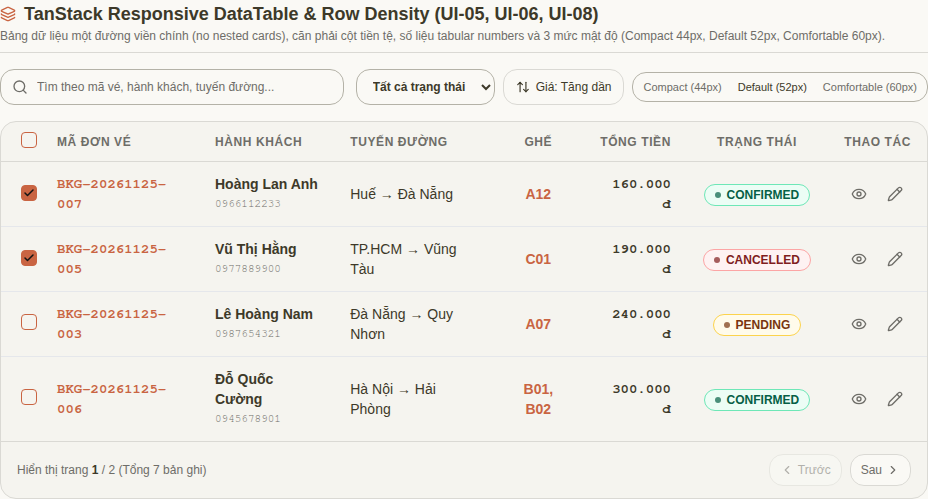
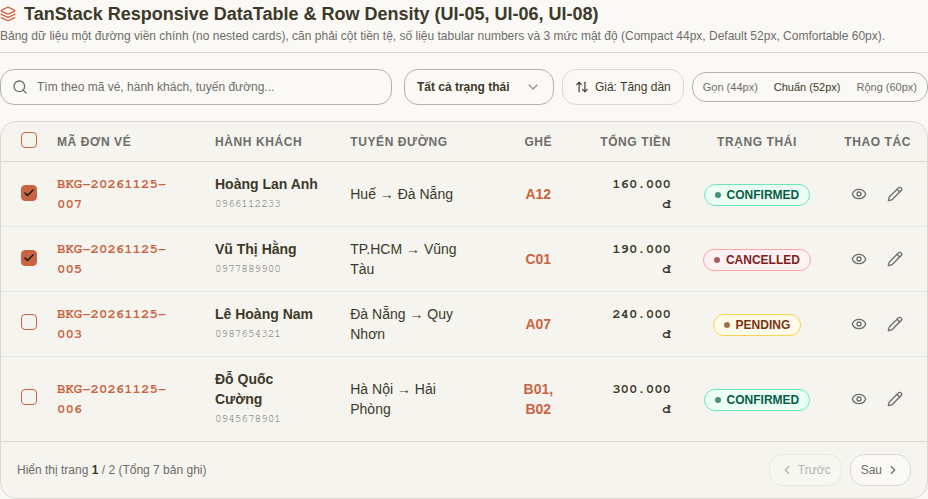
fix(showcase): customize datatable status select, compact density switcher, and fix theme customizer floating button

Changed region(s): [[0.375, 0.1202, 0.9375, 0.2104]]

diff --git a/frontend/src/showcase/DataTableDemo.vue b/frontend/src/showcase/DataTableDemo.vue
@@ -13,6 +13,13 @@ import { Button } from '@/components/ui/button'
 import { Badge, StatusBadge } from '@/components/ui/badge'
 import { Checkbox } from '@/components/ui/checkbox'
 import {
+  Select,
+  SelectTrigger,
+  SelectValue,
+  SelectContent,
+  SelectItem
+} from '@/components/ui/select'
+import {
   Search,
   ArrowUpDown,
   Filter,
@@ -180,47 +187,53 @@ function toggleSelectRow(id: string) {
       </div>
 
       <div class="flex flex-wrap items-center gap-2">
-        <select
-          v-model="selectedStatus"
-          class="h-9 px-3 rounded-md border border-input text-xs font-semibold text-foreground bg-background focus:ring-2 focus:ring-ring"
-        >
-          <option value="ALL">Tất cả trạng thái</option>
-          <option value="CONFIRMED">Đã xác nhận</option>
-          <option value="PENDING">Chờ thanh toán</option>
-          <option value="REFUNDED">Đã hoàn tiền</option>
-          <option value="CANCELLED">Đã hủy</option>
-        </select>
+        <!-- Status Filter Custom Select (Shadcn Vue) -->
+        <Select v-model="selectedStatus">
+          <SelectTrigger class="h-9 w-[150px] text-xs font-semibold bg-background border-input">
+            <SelectValue placeholder="Tất cả trạng thái" />
+          </SelectTrigger>
+          <SelectContent>
+            <SelectItem value="ALL">Tất cả trạng thái</SelectItem>
+            <SelectItem value="CONFIRMED">Đã xác nhận</SelectItem>
+            <SelectItem value="PENDING">Chờ thanh toán</SelectItem>
+            <SelectItem value="REFUNDED">Đã hoàn tiền</SelectItem>
+            <SelectItem value="CANCELLED">Đã hủy</SelectItem>
+          </SelectContent>
+        </Select>
 
         <Button variant="outline" size="sm" class="h-9 text-xs gap-1.5" @click="sortAsc = !sortAsc">
           <ArrowUpDown class="h-3.5 w-3.5" />
           <span>{{ sortAsc ? 'Giá: Tăng dần' : 'Giá: Giảm dần' }}</span>
         </Button>
 
-        <!-- Density Selector (UI-05 & UI-08) -->
-        <div class="inline-flex rounded-md border border-input p-0.5 bg-muted/40">
+        <!-- Density Selector: Tối ưu nhỏ gọn, hiển thị rõ độ cao -->
+        <div class="inline-flex items-center rounded-md border border-input p-0.5 bg-muted/40 text-[11px]">
           <button
             type="button"
-            class="px-2 py-1 text-[11px] rounded transition-colors font-medium cursor-pointer"
+            class="px-2 py-1 rounded transition-colors font-medium cursor-pointer"
             :class="tableDensity === 'compact' ? 'bg-background font-bold shadow-xs text-foreground' : 'text-muted-foreground hover:text-foreground'"
+            title="Độ cao dòng Compact (44px)"
             @click="tableDensity = 'compact'"
           >
-            Compact (44px)
+            Gọn (44px)
           </button>
           <button
             type="button"
-            class="px-2 py-1 text-[11px] rounded transition-colors font-medium cursor-pointer"
+            class="px-2 py-1 rounded transition-colors font-medium cursor-pointer"
             :class="tableDensity === 'default' ? 'bg-background font-bold shadow-xs text-foreground' : 'text-muted-foreground hover:text-foreground'"
+            title="Độ cao dòng Default (52px)"
             @click="tableDensity = 'default'"
           >
-            Default (52px)
+            Chuẩn (52px)
           </button>
           <button
             type="button"
-            class="px-2 py-1 text-[11px] rounded transition-colors font-medium cursor-pointer"
+            class="px-2 py-1 rounded transition-colors font-medium cursor-pointer"
             :class="tableDensity === 'comfortable' ? 'bg-background font-bold shadow-xs text-foreground' : 'text-muted-foreground hover:text-foreground'"
+            title="Độ cao dòng Comfortable (60px)"
             @click="tableDensity = 'comfortable'"
           >
-            Comfortable (60px)
+            Rộng (60px)
           </button>
         </div>
       </div>

diff --git a/frontend/src/shared/components/ThemeCustomizer.vue b/frontend/src/shared/components/ThemeCustomizer.vue
@@ -1,5 +1,5 @@
 <script setup lang="ts">
-import { ref, computed } from 'vue'
+import { ref, watch } from 'vue'
 import {
   useTheme,
   type ThemeMode,
@@ -37,13 +37,20 @@ const emits = defineEmits<{
   (e: 'update:modelValue', val: boolean): void
 }>()
 
-const localIsOpen = ref(false)
-const isOpen = computed({
-  get: () => (props.modelValue !== undefined ? props.modelValue : localIsOpen.value),
-  set: (val: boolean) => {
-    localIsOpen.value = val
-    emits('update:modelValue', val)
-  }
+const isOpen = ref(false)
+
+watch(
+  () => props.modelValue,
+  (val) => {
+    if (val !== undefined) {
+      isOpen.value = val
+    }
+  },
+  { immediate: true }
+)
+
+watch(isOpen, (val) => {
+  emits('update:modelValue', val)
 })
 const {
   draftTheme,
@@ -95,27 +102,28 @@ function handleReset() {
 
 <template>
   <div>
-    <!-- Trigger Floating Button (Hidden on mobile if controlled from header) -->
+    <!-- Trigger Floating Button (Nút nổi tròn kinh điển ở góc dưới phải z-40) -->
     <Button
       v-if="showFloatingTrigger"
       variant="outline"
       size="sm"
-      class="hidden md:flex fixed bottom-5 right-5 z-40 items-center gap-2 rounded-full shadow-lg border-primary/30 bg-background/95 backdrop-blur hover:bg-accent"
+      class="fixed bottom-5 right-5 z-40 flex items-center gap-2 rounded-full shadow-lg border-primary/30 bg-background/95 backdrop-blur hover:bg-accent cursor-pointer transition-transform duration-150 hover:scale-105 active:scale-95"
       @click="isOpen = !isOpen"
     >
       <Paintbrush class="h-4 w-4 text-primary" />
       <span class="font-medium text-xs">Tùy biến Theme</span>
     </Button>
 
-    <!-- Slide-over Drawer / Panel -->
-    <div
-      v-if="isOpen"
-      class="fixed inset-0 z-50 flex justify-end bg-black/40 backdrop-blur-xs transition-opacity"
-      @click.self="handleCancel"
-    >
+    <!-- Slide-over Drawer / Panel (Teleport thẳng ra body z-50, không bị che khuất hay ảnh hưởng bởi layout) -->
+    <Teleport to="body">
       <div
-        class="flex flex-col h-full w-full max-w-md bg-background border-l shadow-2xl p-6 overflow-y-auto animate-in slide-in-from-right duration-300"
+        v-if="isOpen"
+        class="fixed inset-0 z-50 flex justify-end bg-black/50 backdrop-blur-xs transition-opacity duration-300"
+        @click.self="handleCancel"
       >
+        <div
+          class="flex flex-col h-full w-full max-w-md bg-background border-l shadow-2xl p-6 overflow-y-auto animate-in slide-in-from-right duration-300"
+        >
         <div class="flex items-center justify-between pb-4 border-b">
           <div class="flex items-center gap-2">
             <div class="p-2 rounded-lg bg-primary/10 text-primary">
@@ -327,5 +335,6 @@ function handleReset() {
         </div>
       </div>
     </div>
-  </div>
+  </Teleport>
+</div>
 </template>

diff --git a/frontend/e2e/showcase-audit.spec.js b/frontend/e2e/showcase-audit.spec.js
@@ -119,7 +119,7 @@ test.describe('Showcase UI Fidelity & Interactive Audit (UI-01 through UI-14)', 
     })
 
     // 2. Switch to Compact density
-    const compactBtn = tableSection.locator('button:has-text("Compact")')
+    const compactBtn = tableSection.locator('button:has-text("Compact"), button:has-text("Gọn")')
     if (await compactBtn.isVisible()) {
       await compactBtn.click()
       await page.waitForTimeout(200)

diff --git a/frontend/src/showcase/ShowcaseHub.vue b/frontend/src/showcase/ShowcaseHub.vue
@@ -743,10 +743,9 @@ function scrollTo(id: string) {
       </main>
     </div>
 
-    <!-- Theme Customizer Drawer (Controlled from Header or custom trigger) -->
+    <!-- Theme Customizer Drawer với Floating Trigger tròn kinh điển góc dưới phải -->
     <ThemeCustomizer
       v-model="isCustomizerOpen"
-      :show-floating-trigger="false"
     />
   </div>
 </template>
